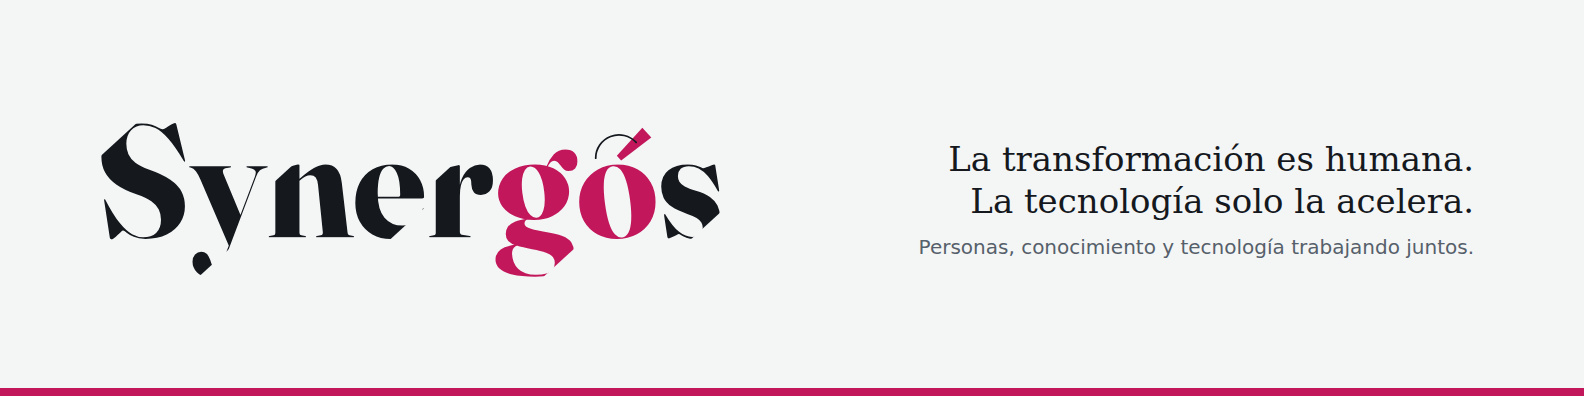
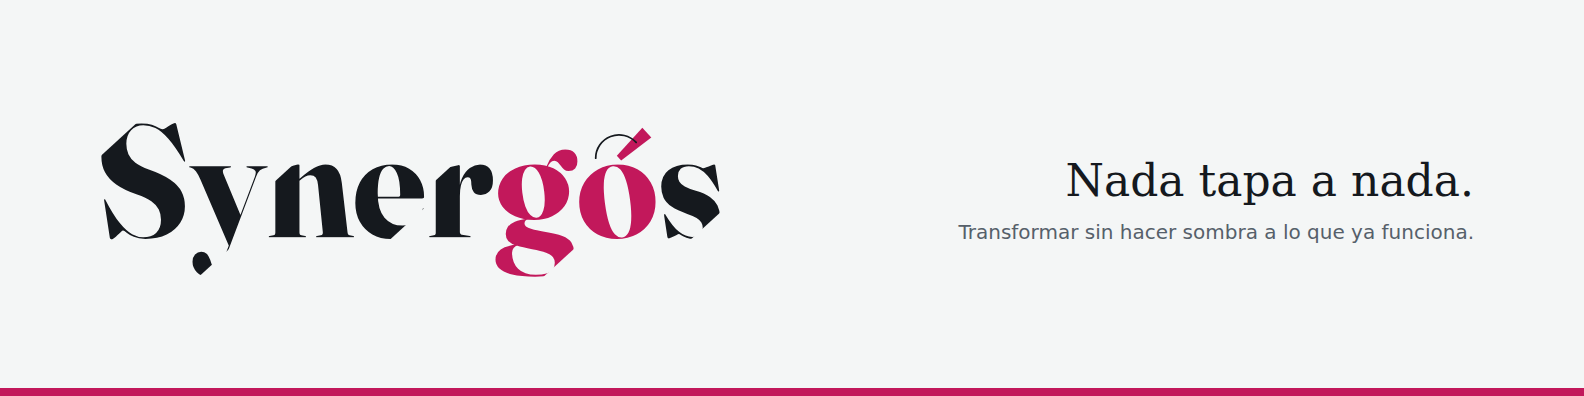
Eslogan definitivo: Nada tapa a nada. Tarjeta, cabecera, A7 y perfil actualizados
Claude-Session: https://claude.ai/code/session_01Kwrj1aJqv3F9rgwxPu8ASz

Changed region(s): [[0.5878, 0.3636, 0.928, 0.5455], [0.5568, 0.5758, 0.928, 0.6667]]

diff --git a/synergos/imagenes/tarjeta-eslogan.html b/synergos/imagenes/tarjeta-eslogan.html
@@ -1,15 +1,15 @@
 <!doctype html><html><head><meta charset="utf-8"><style>
 html,body{margin:0;width:1200px;height:1200px;background:#F4F6F6;font-family:'DejaVu Serif',serif;color:#15191E}
-.w{position:absolute;inset:0;padding:110px 100px;display:flex;flex-direction:column;justify-content:space-between;box-sizing:border-box}
-h1{font-size:62px;line-height:1.2;margin:0;font-weight:normal;max-width:1000px}
+.w{position:absolute;top:0;left:0;width:1200px;height:1200px;padding:140px 100px 110px;display:flex;flex-direction:column;justify-content:space-between;box-sizing:border-box}
+h1{font-size:96px;line-height:1.1;margin:0;font-weight:normal;max-width:1000px}
 h1 b{font-weight:normal;color:#C2185B}
-.sub{font-family:'DejaVu Sans',sans-serif;font-size:28px;color:#56606A;margin-top:36px}
+.sub{font-family:'DejaVu Sans',sans-serif;font-size:32px;color:#56606A;margin-top:40px;max-width:900px;line-height:1.4}
 .foot{display:flex;align-items:flex-end;justify-content:space-between}
 .foot img{width:520px;display:block}
 .foot span{font-family:'DejaVu Sans',sans-serif;font-size:22px;color:#56606A}
 .bar{position:absolute;left:0;top:0;height:14px;width:100%;background:#C2185B}
-</style></head><body><div class="bar"><div class="w">
-<div><h1>La transformación es <b>humana</b>.<br>La tecnología solo la acelera.</h1>
-<div class="sub">Personas, conocimiento y tecnología trabajando juntos.</div></div>
+</style></head><body><div class="bar"></div><div class="w">
+<div><h1><b>Nada</b> tapa a nada.</h1>
+<div class="sub">Synergós: transformar sin hacer sombra a lo que ya funciona.</div></div>
 <div class="foot"><img src="logo-synergos.svg"><span>Alejandro Berruezo</span></div>
 </div></body></html>

diff --git a/synergos/imagenes/cabecera.html b/synergos/imagenes/cabecera.html
@@ -3,10 +3,10 @@ html,body{margin:0;width:1584px;height:396px;background:#F4F6F6;font-family:'Dej
 .w{position:absolute;inset:0;display:flex;align-items:center;justify-content:space-between;padding:0 110px 0 90px}
 .l img{width:640px;display:block}
 .r{text-align:right;max-width:620px}
-.r h1{font-size:34px;line-height:1.25;margin:0 0 12px;font-weight:normal}
+.r h1{font-size:44px;line-height:1.25;margin:0 0 12px;font-weight:normal}
 .r p{font-size:20px;margin:0;color:#56606A;font-family:'DejaVu Sans',sans-serif}
 .bar{position:absolute;left:0;bottom:0;height:8px;width:100%;background:#C2185B}
 </style></head><body><div class="w">
 <div class="l"><img src="logo-synergos.svg"></div>
-<div class="r"><h1>La transformación es humana.<br>La tecnología solo la acelera.</h1><p>Personas, conocimiento y tecnología trabajando juntos.</p></div>
+<div class="r"><h1>Nada tapa a nada.</h1><p>Transformar sin hacer sombra a lo que ya funciona.</p></div>
 </div><div class="bar"></div></body></html>

diff --git a/synergos/07-perfil.md b/synergos/07-perfil.md
@@ -1,6 +1,6 @@
 # Perfil de LinkedIn: titular y Acerca de con Synergós
 
-**Aviso (26 oct, tarde):** Alejandro quiere revisar el eslogan porque "la transformación es de personas" está muy manido. Las dos primeras líneas del titular y del Acerca de dependen de esa decisión; el resto del texto vale igual.
+**Actualizado (26 oct, tarde)** con el eslogan definitivo: "Nada tapa a nada." Listo para pegar.
 
 Propuesta del 26 oct 2026 para alinear el perfil con el lanzamiento de Synergós (post B0, 27 oct). Criterio: no quitar nada de lo que Alejandro es; cambiar el orden para que Synergós aparezca en las dos primeras líneas, que es lo que se ve sin pulsar "ver más". Alejandro lo pega a mano en LinkedIn (Publora no edita perfiles).
 
@@ -8,11 +8,11 @@ Propuesta del 26 oct 2026 para alinear el perfil con el lanzamiento de Synergós
 
 **Opción A (recomendada, 207 caracteres):**
 
-Líder en Transformación e Innovación | Construyo Synergós: la transformación es humana, la tecnología solo la acelera | 30 años en programas complejos y sector público | Ingeniero · Emprendedor · Mentor
+Líder en Transformación e Innovación | Construyo Synergós: transformar sin hacer sombra a lo que ya funciona | 30 años en programas complejos y sector público | Ingeniero · Emprendedor · Mentor
 
 **Opción B (201 caracteres):**
 
-Transformación humana, innovación e IA | Synergós: personas, conocimiento y tecnología trabajando juntos | 30 años liderando programas complejos | Preventa y gobierno | Ingeniero · Emprendedor · Mentor
+Transformación, innovación e IA | Synergós: nada tapa a nada | 30 años liderando programas complejos en sector público y grandes organizaciones | Preventa y gobierno | Ingeniero · Emprendedor · Mentor
 
 Qué cambia respecto al actual: Synergós y la frase entran en la primera línea; "Trader" y "Aprendiz" salen del titular por espacio (pueden quedarse en el Acerca de si Alejandro quiere); "Preventa, Estrategia y Gobierno" se condensa.
 
@@ -22,9 +22,9 @@ Las tres primeras líneas son las que se ven antes de "ver más"; por eso empiez
 
 ---
 
-Llevo 30 años en lo que todos llamamos transformación digital y cada vez estoy más convencido de que el nombre está mal puesto: la transformación es humana. La tecnología solo la acelera.
+Nada tapa a nada. En un girasol, cada semilla nace girada 137,5 grados respecto a la anterior y por eso ninguna hace sombra a otra. Llevo 30 años viendo transformaciones que fracasan por lo contrario: lo nuevo se pone encima de las personas y de lo que ya funcionaba.
 
-Sobre esa idea estoy construyendo Synergós (del griego "el que trabaja junto a otro"): un marco para dirigir transformaciones en las que la tecnología, la IA y la innovación amplían a las personas en lugar de sustituirlas. Aquí publico cada martes y jueves una idea, con sus fuentes, y discuto las objeciones. Si diriges una transformación y te haces las mismas preguntas, este es el sitio.
+Sobre esa idea estoy construyendo Synergós (del griego "el que trabaja junto a otro"): un marco para dirigir transformaciones en las que la tecnología, la IA y la innovación se colocan donde amplían a las personas en lugar de taparlas. Aquí publico cada martes y jueves una idea, con sus fuentes, y discuto las objeciones. Si diriges una transformación y te haces las mismas preguntas, este es el sitio.
 
 Lo que hay detrás:
 

diff --git a/synergos/04-bitacora.md b/synergos/04-bitacora.md
@@ -53,3 +53,5 @@ Registro cronológico de cómo evoluciona la idea. Entradas breves: qué se disc
 - Alejandro propone el ángulo áureo (dice 138,5; el valor es 137,5) como símil de Synergós: orden humano y digital. Cinco opciones enviadas (identidad visual; "nada tapa a nada"; regla simple, orden complejo; crecer desde el centro; el ángulo que no se repite). Pendiente de que elija.
 - Logo aprobado por Alejandro (26 oct, "me gusta el último"): `imagenes/logo-synergos.svg`. Formatos generados con él: `avatar.png` y `avatar-oscuro.png` (800x800, icono "gó" con acento y arco), `cabecera.png` (1584x396, cabecera de LinkedIn con eslogan) y `tarjeta-eslogan.png` (1200x1200, para acompañar posts). Todo generado aquí a partir de Fraunces (OFL) y vectores propios; sin material de terceros. Script de render: `imagenes/render.js`.
 - 26 oct, decisiones de Alejandro: (1) el post B0 de mañana lleva la tarjeta del eslogan; subida a Publora (media 6adf1938ed849b64de419c2f, lista) y post reprogramado para el 27 oct a las 8:30 Madrid tras la revalidación. Regla por defecto A8: tarjeta en los posts de Synergós, sin imagen en Comunidad. (2) Del símil del ángulo áureo se queda con "nada tapa a nada"; entra como P6 y post B10.
+- 26 oct, tarde: Alejandro revisa el eslogan ("la transformación es de personas" está manido; quiere algo diferencial). De cinco opciones elige "Nada tapa a nada." con subtítulo "Synergós: transformar sin hacer sombra a lo que ya funciona." Tarjeta y cabecera regeneradas con el eslogan nuevo; en Publora se borró la tarjeta anterior, se subió la nueva (media 6adf487d21af69534cdb0bfa) y el post B0 se reprogramó para el 27 oct a las 8:30. El texto del post no cambia: la frase antigua aparece como reflexión, no como lema. Perfil (07-perfil.md) pendiente de rehacer las dos primeras líneas con el eslogan nuevo.
+- Consejo dado a Alejandro sobre el lanzamiento en LinkedIn: perfil alineado antes del primer post, aviso privado a 10 o 15 personas pidiendo objeciones, estar en los comentarios la primera hora, un artefacto descargable (carrusel con las preguntas de Synergós) en 4 a 6 semanas, y no medir hasta pasados tres meses.

diff --git a/synergos/README.md b/synergos/README.md
@@ -21,7 +21,7 @@ Este cuaderno es la memoria viva del pensamiento. No es el método terminado: es
 - **A3. Synergós habla a quien dirige la transformación dentro de la organización**, no a quien la vende.
 - **A4. Nada inventado presentado como real.** Los casos compuestos se etiquetan como tales. Las cifras solo si están verificadas en `02-fuentes.md`.
 - **A5. En público, siempre Synergós.** Nunca el nombre de trabajo interno.
-- **A7. La frase de Synergós.** Titular: "La transformación es humana. La tecnología solo la acelera." Subtítulo: "Synergós: personas, conocimiento y tecnología trabajando juntos." Fijadas el 26 oct 2026. Synergós habla de transformación humana, no digital: el hashtag de tema principal es #TransformaciónHumana.
+- **A7. La frase de Synergós.** Eslogan: "Nada tapa a nada." Subtítulo: "Synergós: transformar sin hacer sombra a lo que ya funciona." Elegido el 26 oct 2026 (sustituye a "La transformación es humana. La tecnología solo la acelera.", que pasa a ser una idea de fondo de los posts, no el lema, porque "la transformación es de personas" está muy manido). Viene del ángulo áureo del girasol (137,5 grados), que es también el acento del logo. Frase de fondo complementaria: "Lo que no está escrito es lo que sostiene todo." Hashtag de tema principal: #TransformaciónHumana se mantiene por ahora.
 - **A8. Imagen por defecto.** Los posts de Synergós (martes y jueves) llevan la tarjeta `imagenes/tarjeta-eslogan.png` (o una tarjeta derivada del logo aprobado); los de Comunidad no llevan imagen. Enlaces, si los hay, van en el primer comentario. Fijado por Alejandro el 26 oct 2026.
 - **A6. Hashtags.** Al final del post, nunca dentro de las frases. Cinco como máximo: `#Synergos` (sin tilde, para que coincida con cómo lo escribirá la gente) más tres o cuatro de tema. En el texto, la grafía sigue siendo Synergós con tilde.
 

diff --git a/synergos/01-preguntas-abiertas.md b/synergos/01-preguntas-abiertas.md
@@ -43,6 +43,7 @@ Lo que todavía no sabemos o no hemos decidido. Cada pregunta indica a qué tesi
 - Titular: **"La transformación es humana. La tecnología solo la acelera."**
 - Subtítulo: **"Synergós: personas, conocimiento y tecnología trabajando juntos."**
 Consecuencia: Synergós deja de presentarse como "transformación digital" y pasa a "transformación humana". El hashtag de tema principal es #TransformaciónHumana. Va al README como axioma A7.
+**REABIERTA Y CERRADA DE NUEVO (26 oct 2026, tarde).** Alejandro considera que "la transformación es de personas" está muy manido y quiere un eslogan diferencial. Elige la opción que sale de lo que solo tiene él (el ángulo áureo y el logo): **"Nada tapa a nada."** con subtítulo **"Synergós: transformar sin hacer sombra a lo que ya funciona."** La frase anterior queda como idea de fondo. A7 actualizado.
 
 ## P6. El ángulo áureo como símil de Synergós
 
